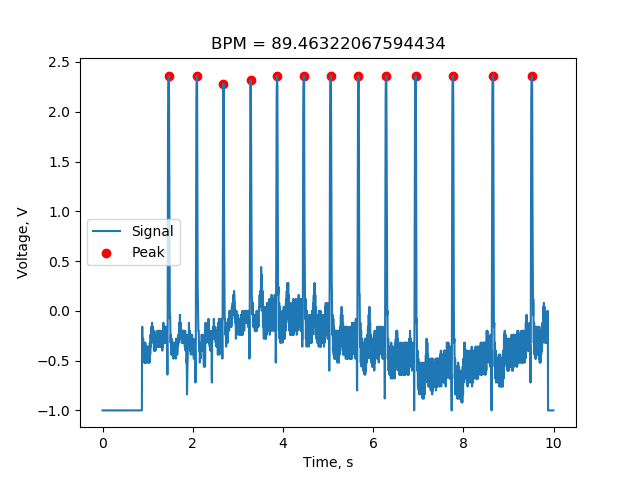
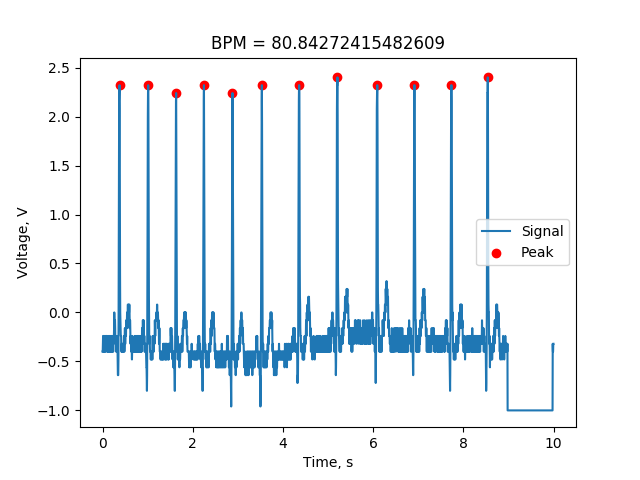
edit test2

diff --git a/test2.py b/test2.py
@@ -5,7 +5,7 @@ from ekg_utils import *
 
 if __name__ == "__main__":
     sig = HeartSignal()
-    V,t = sig.read_file("ScopeData/ALL0008J/F0008CH1.CSV")  
+    V,t = sig.read_file("ScopeData/ALL0005/F0005CH1.CSV")  
     min_thresh = -1.
     V = np.array([i if i>min_thresh else min_thresh for i in V])
     
